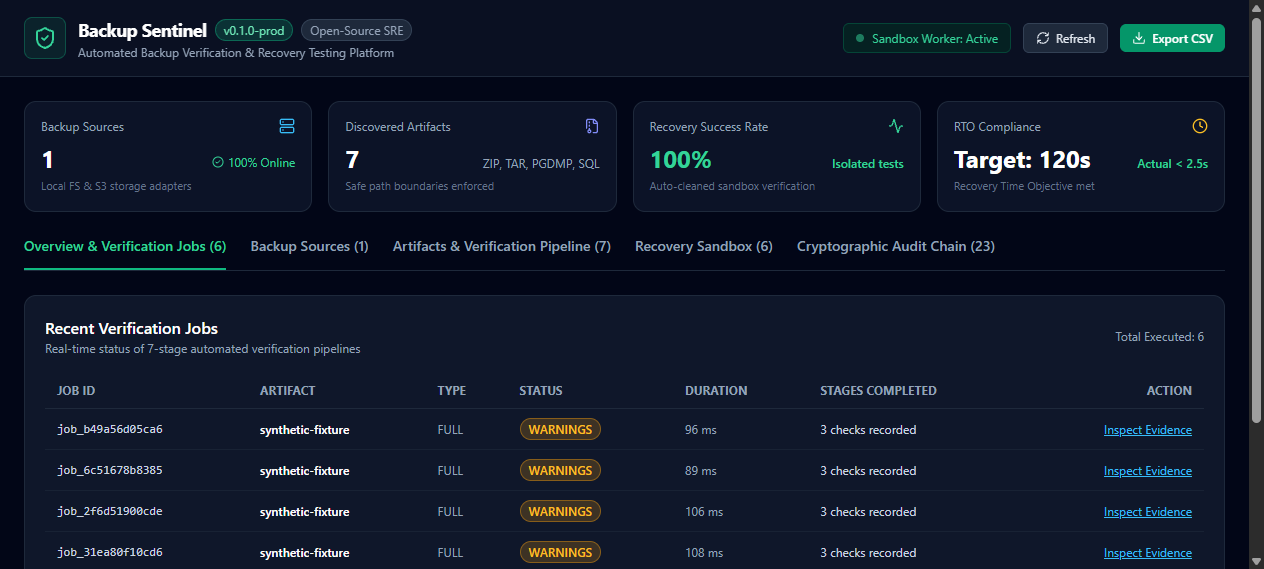
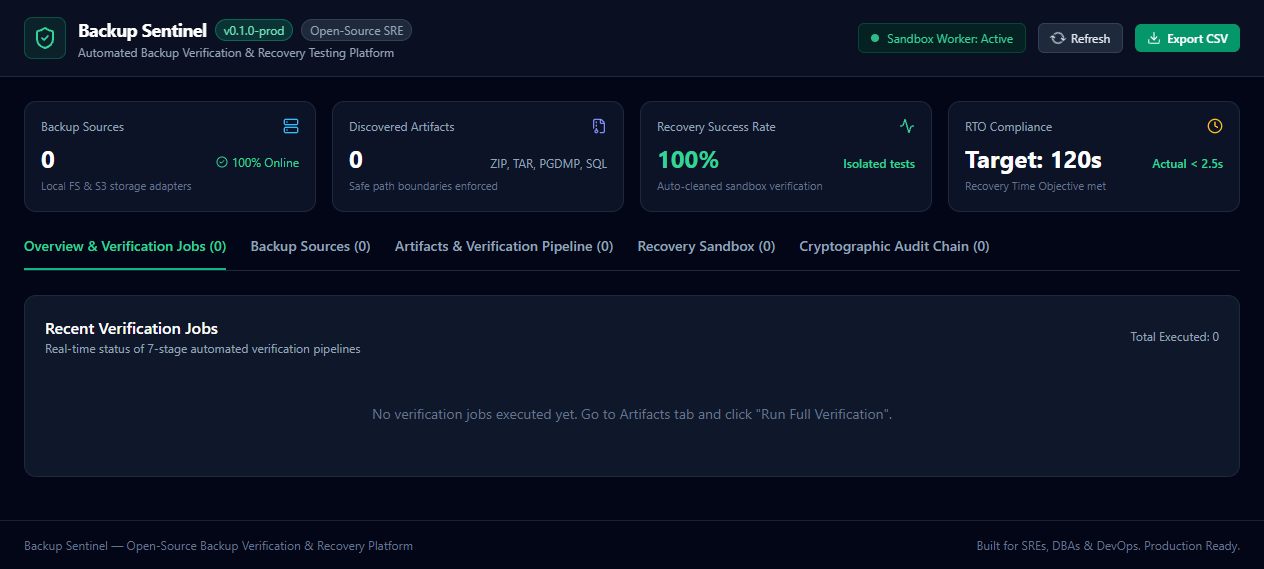
docs: add full-project screenshots gallery for all major subsystem views

diff --git a/README.md b/README.md
@@ -30,9 +30,32 @@ Backup Sentinel answers five critical operational questions:
 
 ---
 
-## 📸 Dashboard Preview
+## 📸 Platform Tour & Screenshots
 
-![Backup Sentinel Dashboard](docs/screenshots/dashboard.png)
+### 1. Operations Overview & Verification Pipelines
+Real-time operational health, RTO/RPO metrics, and active 7-stage verification execution.
+
+![Overview & Verification Pipelines](docs/screenshots/overview.png)
+
+### 2. Discovered Artifacts & Integrity Verification
+Inspection table with cryptographic SHA-256 state tracking, archive format detection, and one-click verification triggers.
+
+![Discovered Artifacts](docs/screenshots/artifacts.png)
+
+### 3. Isolated Recovery Testing Sandbox
+Automated disposable sandbox verification runs, showing actual measured restore durations, RTO compliance evaluations, integrity assertions, and sandbox destruction confirmations.
+
+![Recovery Testing Sandbox](docs/screenshots/recovery.png)
+
+### 4. Cryptographic Tamper-Evident Audit Trail
+Append-only immutable audit ledger with SHA-256 hash chaining and on-demand mathematical verification of audit integrity.
+
+![Cryptographic Audit Trail](docs/screenshots/audit.png)
+
+### 5. Storage Adapters & Boundary Enforcement
+Centralized management for local filesystem roots (with path containment checks) and S3 object storage adapters.
+
+![Storage Adapters](docs/screenshots/sources.png)
 
 ---
 
